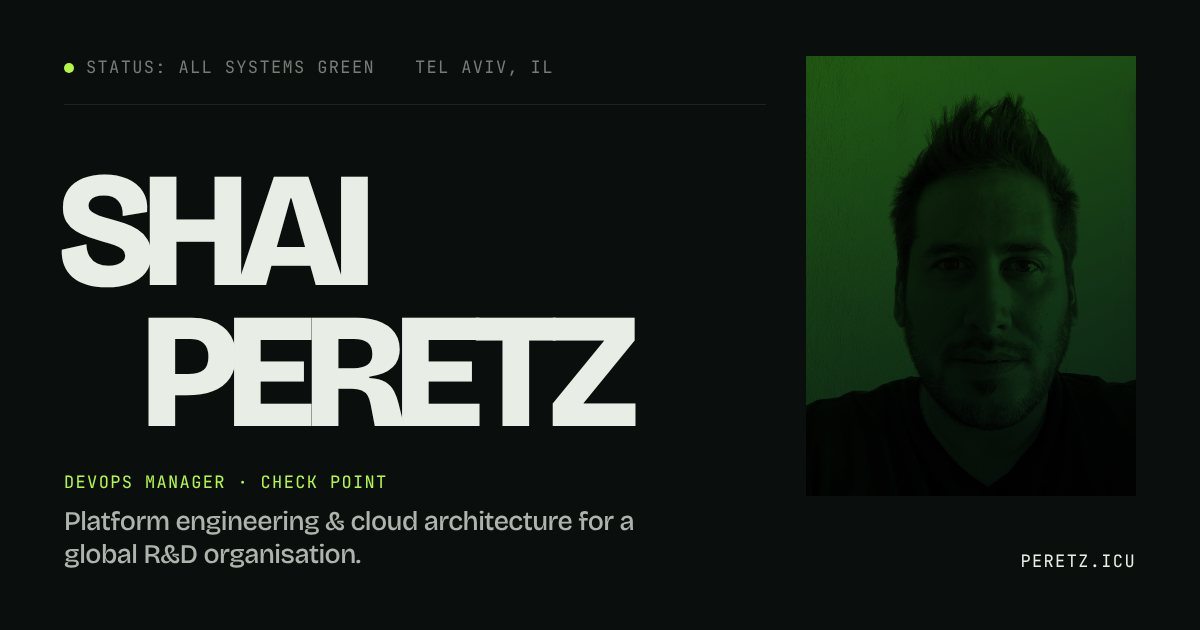
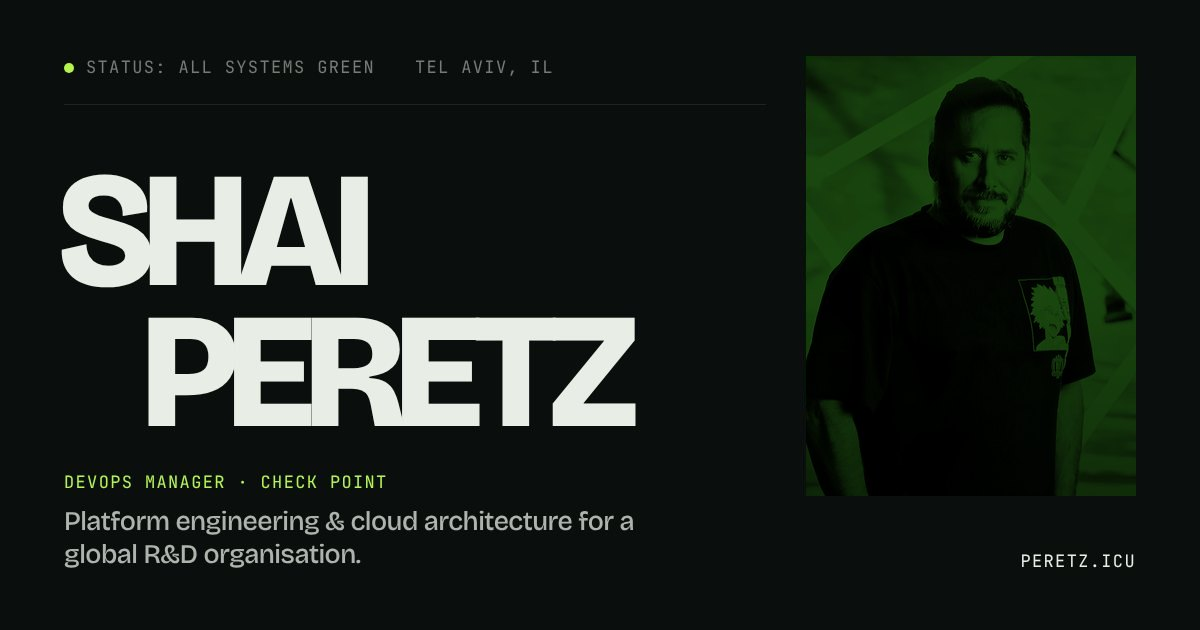
Replace hero portrait with polished new photo
- Retouched the new photo: removed two warm glare streaks across the face,
  converted Display P3 to sRGB, light grain clean-up and sharpening,
  removed a light-rig fragment at the left edge. No face alterations.
- Served as AVIF/WebP (480w + 680w) via <picture>, JPEG fallback;
  hero image 449 KB -> 25 KB AVIF. fetchpriority=high for LCP.
- Zoom/scale anchored on the face so the 1.12 scale never crops the head.
- Updated the share image (og-image.jpg) with the new portrait.
- All metadata stripped.

Claude-Session: https://claude.ai/code/session_01NJJvj5uVQAFvB25ZV9pnpz

Changed region(s): [[0.6475, 0.0905, 0.9558, 0.7841]]

diff --git a/index.html b/index.html
@@ -260,7 +260,11 @@
   </h1>
 
   <figure class="hero__photo" id="heroPhoto" data-cursor="that's me">
-    <div class="duo"><img src="assets/shai-hero.jpg" alt="Portrait of Shai Peretz" width="1125" height="1500"></div>
+    <div class="duo"><picture>
+      <source type="image/avif" srcset="assets/shai-hero-480.avif 480w, assets/shai-hero.avif 680w" sizes="(max-width: 860px) 45vw, 26rem">
+      <source type="image/webp" srcset="assets/shai-hero-480.webp 480w, assets/shai-hero.webp 680w" sizes="(max-width: 860px) 45vw, 26rem">
+      <img src="assets/shai-hero.jpg" alt="Portrait of Shai Peretz in a black t-shirt" width="680" height="907" fetchpriority="high">
+    </picture></div>
     <figcaption class="mono">fig.01 — the person the R&amp;D org calls</figcaption>
   </figure>
 

diff --git a/css/style.css b/css/style.css
@@ -124,6 +124,9 @@ html.no-js .split .ch, html.reduced .split .ch { transform: none; }
 
 .hero__photo { grid-column: 9 / 13; grid-row: 2 / 4; align-self: end; justify-self: end; width: min(100%, 26rem); z-index: 2; will-change: transform; }
 .hero__photo .duo { aspect-ratio: 3 / 4; border-radius: 0.25rem; clip-path: inset(0 0 100% 0); }
+.duo picture { display: contents; }
+/* zoom anchors on the face, so the 1.12 scale never crops the top of the head */
+.hero__photo .duo img { object-position: 50% 20%; transform-origin: 50% 18%; }
 .hero__role { grid-column: 1 / 7; grid-row: 3; max-width: 34rem; }
 .hero__kicker { color: var(--signal); margin-bottom: 0.8rem; }
 .hero__sub { color: var(--ink-2); font-size: clamp(1.05rem, 1rem + 0.5vw, 1.45rem); line-height: 1.35; }
